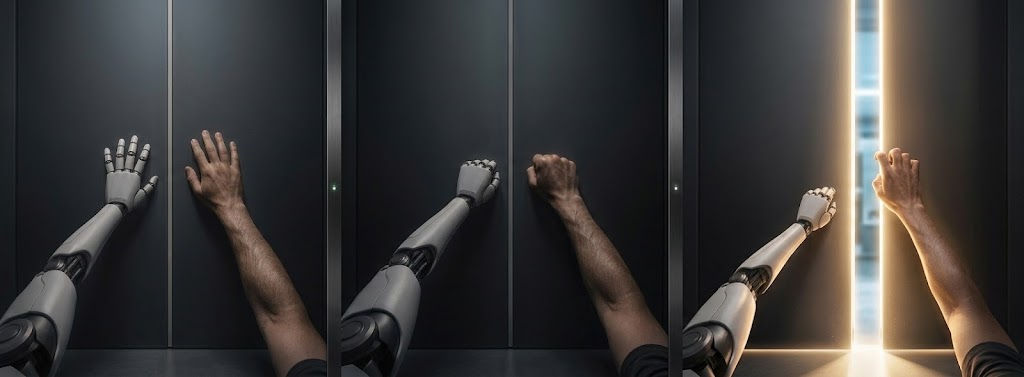
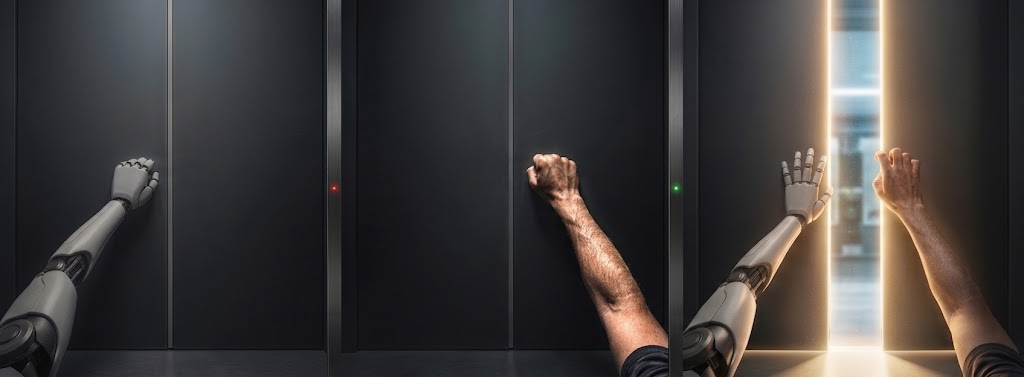
feat(opening): deliver clean rebuild with sc1-sc5 master assets, 3-knock door sequence, and Welcome RockyOS cosmic transition

diff --git a/features/opening/interactive-opening-stage.tsx b/features/opening/interactive-opening-stage.tsx
@@ -246,14 +246,14 @@ export function InteractiveOpeningStage({
       )}
 
       {/* =========================================================================
-          SCENE 5: WELCOME TO ROCKYOS — COSMIC PROLOGUE (sc5.png)
+          SCENE 5: WELCOME ROCKYOS — COSMIC PROLOGUE (sc5.png)
           Observation deck panoramic view of galaxy & nebulae
           ========================================================================= */}
       {scene.id === 5 && (
         <div className="relative w-full h-full flex flex-col items-center justify-center">
           <Image
             src={scene.imageSrc}
-            alt="Scene 5: Welcome to RockyOS"
+            alt="Scene 5: Welcome RockyOS"
             fill
             priority
             quality={100}

diff --git a/features/opening/opening-experience.tsx b/features/opening/opening-experience.tsx
@@ -120,7 +120,7 @@ export function OpeningExperience() {
         setMotionState("follow_through");
       }, MOTION_TIMING.scene4_knock3ImpactMs);
 
-      // Advance to Scene 5 (Welcome to RockyOS) after light flood
+      // Advance to Scene 5 (Welcome RockyOS) after light flood
       setTimeout(() => {
         setMotionState("idle");
         setCurrentIndex(4); // Advance to Scene 5

diff --git a/features/opening/motion-spec.ts b/features/opening/motion-spec.ts
@@ -5,7 +5,7 @@
 
 export const MOTION_TIMING = {
   // Scene 1
-  scene1_holdDurationMs: 1600,
+  scene1_holdDurationMs: 1250,
   scene1_shatterImpactMs: 220,
   scene1_followThroughMs: 450,
 
@@ -14,7 +14,7 @@ export const MOTION_TIMING = {
   scene2_followThroughMs: 500,
 
   // Scene 3
-  scene3_riseHoldMs: 1800,
+  scene3_riseHoldMs: 1300,
   scene3_settleMs: 550,
 
   // Scene 4

diff --git a/features/opening/opening-config.ts b/features/opening/opening-config.ts
@@ -57,7 +57,7 @@ export const CINEMA_SCENES: CinematicSceneConfig[] = [
     type: "scene5",
     actBadge: "05 / 05",
     imageSrc: "/opening/sc5.png",
-    lineEn: "Welcome to RockyOS",
+    lineEn: "Welcome RockyOS",
     lineZh: "欢迎来到 RockyOS",
     hintEn: "· click to enter universe ·",
     hintZh: "· 点击踏入个人数字宇宙 ·",
